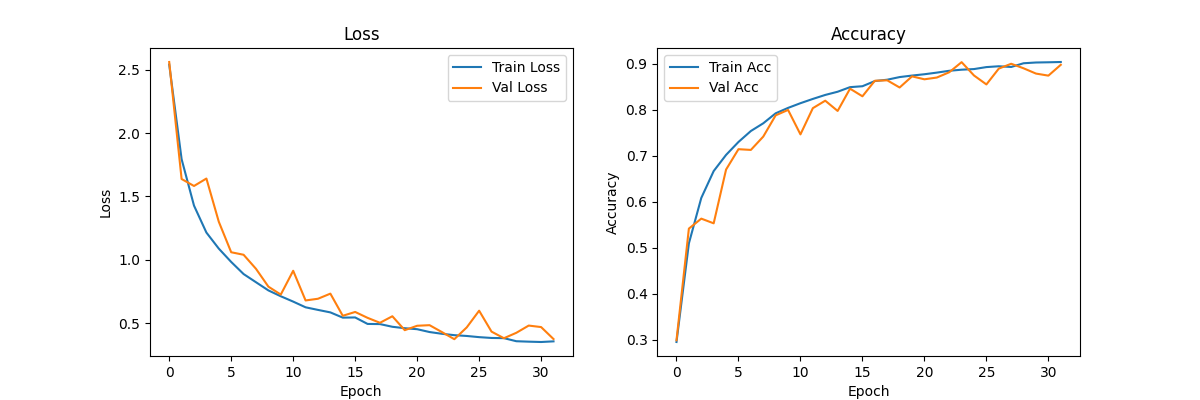
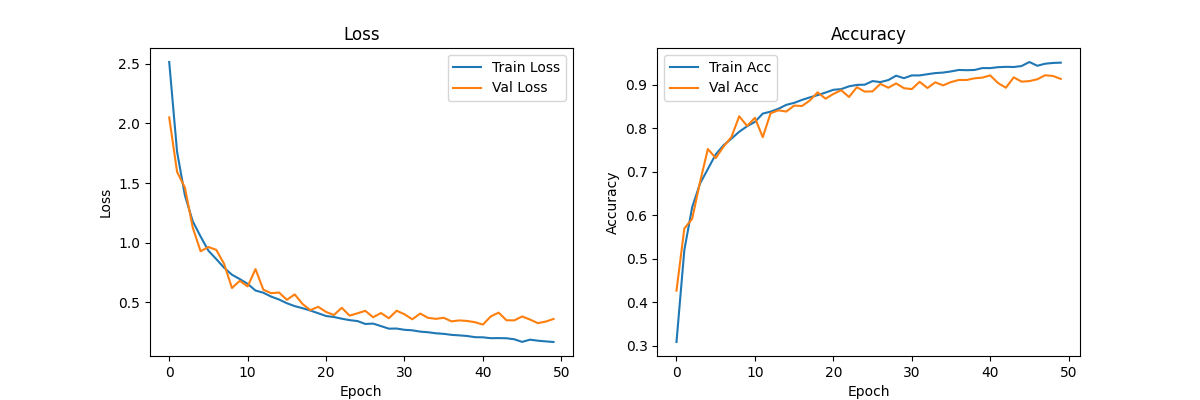
fixed optim

diff --git a/scripts/train.py b/scripts/train.py
@@ -48,7 +48,7 @@ val_loader = DataLoader(val_dataset, batch_size=64, shuffle=False, num_workers=0
 
 model = create_model((3, 64, 64), len(label_dict)).to(DEVICE)
 criterion = nn.CrossEntropyLoss()
-optimizer = optim.Adam(model.parameters(), lr=0.001, weight_decay=0.001)
+optimizer = optim.AdamW(model.parameters(), lr=0.001, weight_decay=0.001)
 
 history = {'train_loss': [], 'val_loss': [], 'train_acc': [], 'val_acc': []}
 best_val_acc = 0.0
